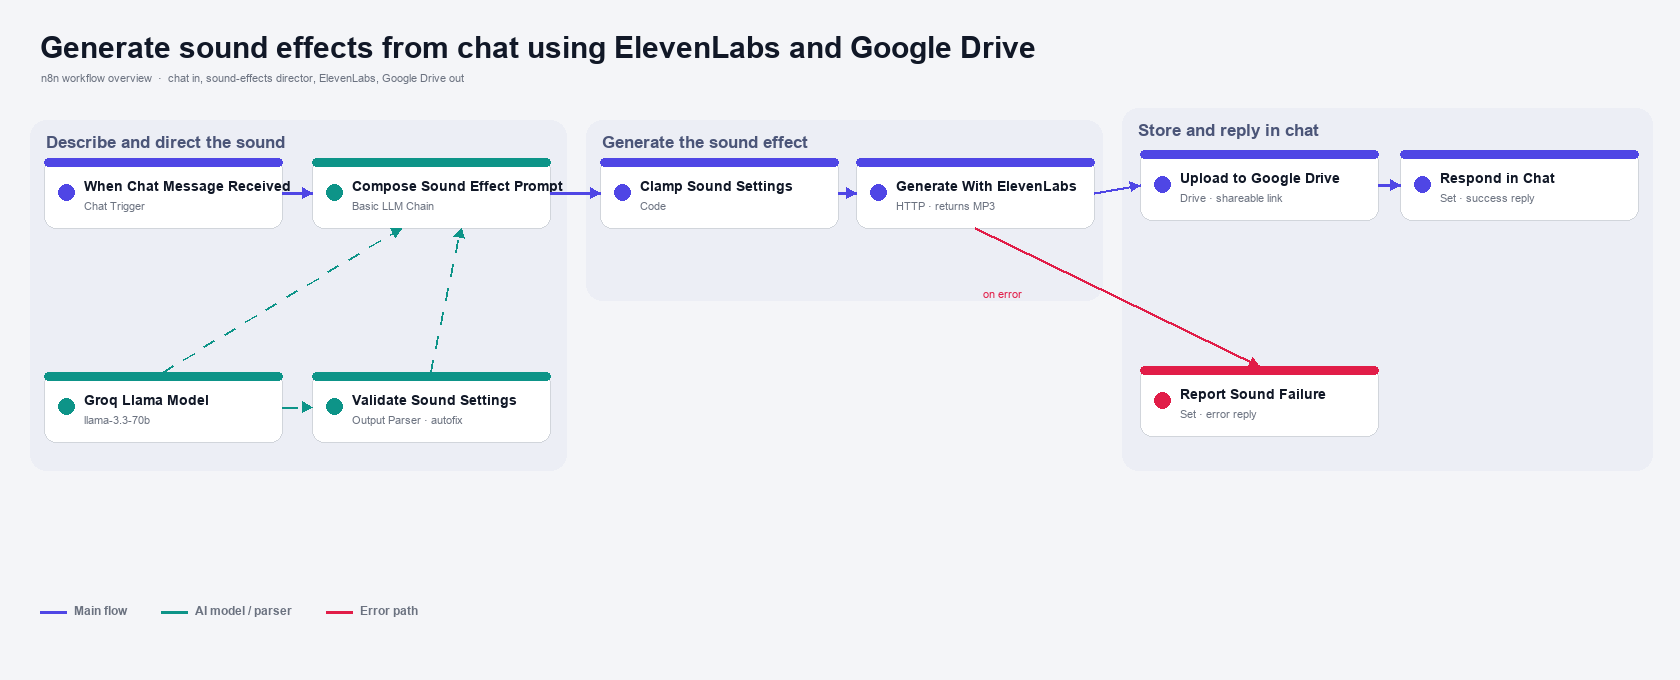
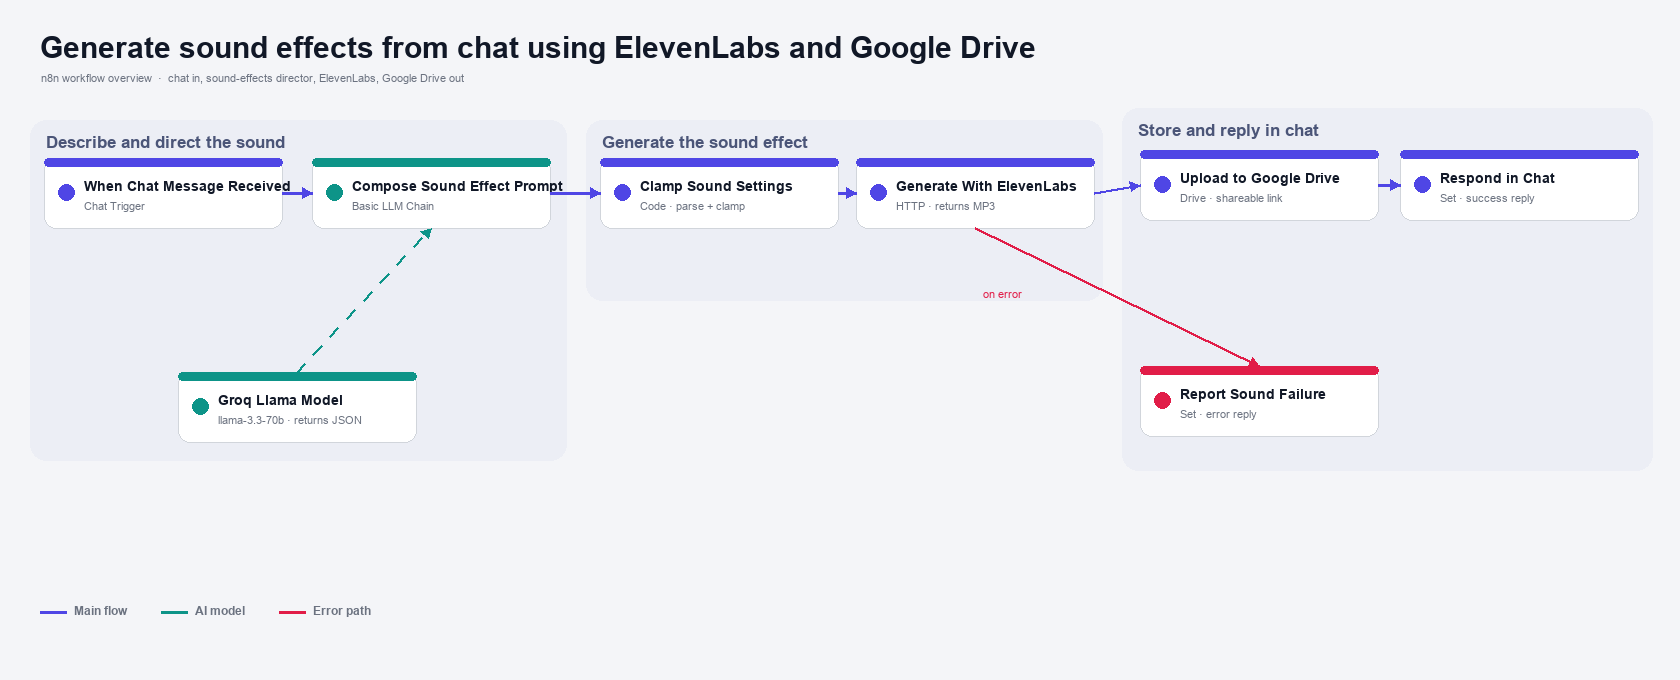
Update the SFX Chat Generator template to the instance-validated build
Rebuilt and tested this template live on the n8n instance, then brought the
repo in line with what actually runs:

- Dropped the structured output parser, which failed to parse reliably on
  llama-3.3-70b and hard-failed the chain. The director now returns plain JSON
  that a Code node parses, with a fallback to the raw words so a bad reply
  never breaks the run.
- Escaped the ElevenLabs request body with JSON.stringify so a prompt
  containing quotes, newlines, or backslashes cannot produce a malformed body.
- Matched the tested node versions (chatTrigger 1.4, chainLlm 1.9,
  httpRequest 4.4) and set the Drive upload to return the shareable link.
- Refreshed the README, listing text, and canvas image, and added an
  ElevenLabs cost note.

diff --git a/pending-submission/n8n-sfx-chat-generator/README.md b/pending-submission/n8n-sfx-chat-generator/README.md
@@ -13,8 +13,8 @@ You send one message. A Groq model acts as a sound-effects director and rewrites
 | Stage | What happens |
 |---|---|
 | Chat trigger | You type a plain description of a sound. |
-| Sound director | A Groq model (Basic LLM Chain) rewrites it into a literal ElevenLabs prompt and picks a duration and a prompt influence, validated by a structured output parser with auto-fix. |
-| Clamp settings | A Code node clamps duration to 0.5 to 30 seconds and prompt influence to 0 to 1, and falls back to your raw words if the description is unclear. |
+| Sound director | A Groq model (Basic LLM Chain) rewrites it into a literal ElevenLabs prompt and returns a small JSON object with the prompt, a duration, and a prompt influence. |
+| Parse and clamp | A Code node parses that JSON, clamps duration to 0.5 to 30 seconds and prompt influence to 0 to 1, and falls back to your raw words if the reply is unclear. |
 | Generate | An HTTP request calls the ElevenLabs sound-generation endpoint and gets back an MP3. It retries three times and has an error path. |
 | Store and reply | The MP3 is uploaded to Google Drive, and the chat gets the link, the exact prompt, and the duration. On failure it sends a friendly message instead. |
 
@@ -38,7 +38,9 @@ The whole idea is turning casual words into a good ElevenLabs prompt. The direct
 | `duration_seconds` | Clip length, 0.5 to 30. Short impacts stay short, ambiences run longer. |
 | `prompt_influence` | 0 to 1. Around 0.3 for natural sounds, higher for precise or mechanical ones. |
 
-To change the style, edit the guidance in that node's prompt. The Code node clamps whatever the model returns, so a bad value never reaches the API. One sound is generated per message.
+The model is asked to return only JSON. The Code node parses it, and if the reply is ever malformed or empty it falls back to your own words, so a bad value never reaches the API and every message still makes a sound. To change the style, edit the guidance in that node's prompt.
+
+One sound is generated per message. ElevenLabs bills sound generation from your ElevenLabs plan (around 40 credits per second of audio), so the clamped duration is also the cost control.
 
 ## What is in this folder
 

diff --git a/pending-submission/n8n-sfx-chat-generator/TEMPLATE-DESCRIPTION.md b/pending-submission/n8n-sfx-chat-generator/TEMPLATE-DESCRIPTION.md
@@ -4,7 +4,7 @@ A chat-triggered sound effect generator. You describe a sound in plain words and
 
 ## How it works
 
-Send a message like "a heavy wooden door creaking open" to the chat. The director step turns it into a precise ElevenLabs prompt and chooses a duration between 0.5 and 30 seconds and a prompt influence between 0 and 1. A short Code step clamps those values to safe ranges and falls back to your own words if the description is unclear, so every message still produces something. The workflow calls the ElevenLabs sound-generation endpoint, receives an MP3, uploads it to a Google Drive folder, and replies with the link, the exact prompt used, and the duration. If the sound service is busy or errors after retries, you get a friendly message instead of a broken chat.
+Send a message like "a heavy wooden door creaking open" to the chat. The director step turns it into a precise ElevenLabs prompt and returns a small JSON object with the prompt, a duration between 0.5 and 30 seconds, and a prompt influence between 0 and 1. A short Code step parses that JSON and clamps the values to safe ranges, falling back to your own words if the reply is unclear, so every message still produces something. The workflow calls the ElevenLabs sound-generation endpoint, receives an MP3, uploads it to a Google Drive folder, and replies with the link, the exact prompt used, and the duration. If the sound service is busy or errors after retries, you get a friendly message instead of a broken chat.
 
 ## How to set up
 
@@ -16,7 +16,7 @@ n8n, an ElevenLabs API key (as a Header Auth credential), a Groq API credential,
 
 ## Good to know
 
-One sound is generated per message. Clips are capped at 30 seconds by the ElevenLabs API. ElevenLabs sound generation is a paid feature of your ElevenLabs plan and is billed by them per generation, so check your plan before heavy use.
+One sound is generated per message. Clips are capped at 30 seconds by the ElevenLabs API. ElevenLabs sound generation is a paid feature of your ElevenLabs plan (around 40 credits per second of audio), so the clamped duration is also the cost control. Check your plan before heavy use.
 
 ## How to customize the workflow
 